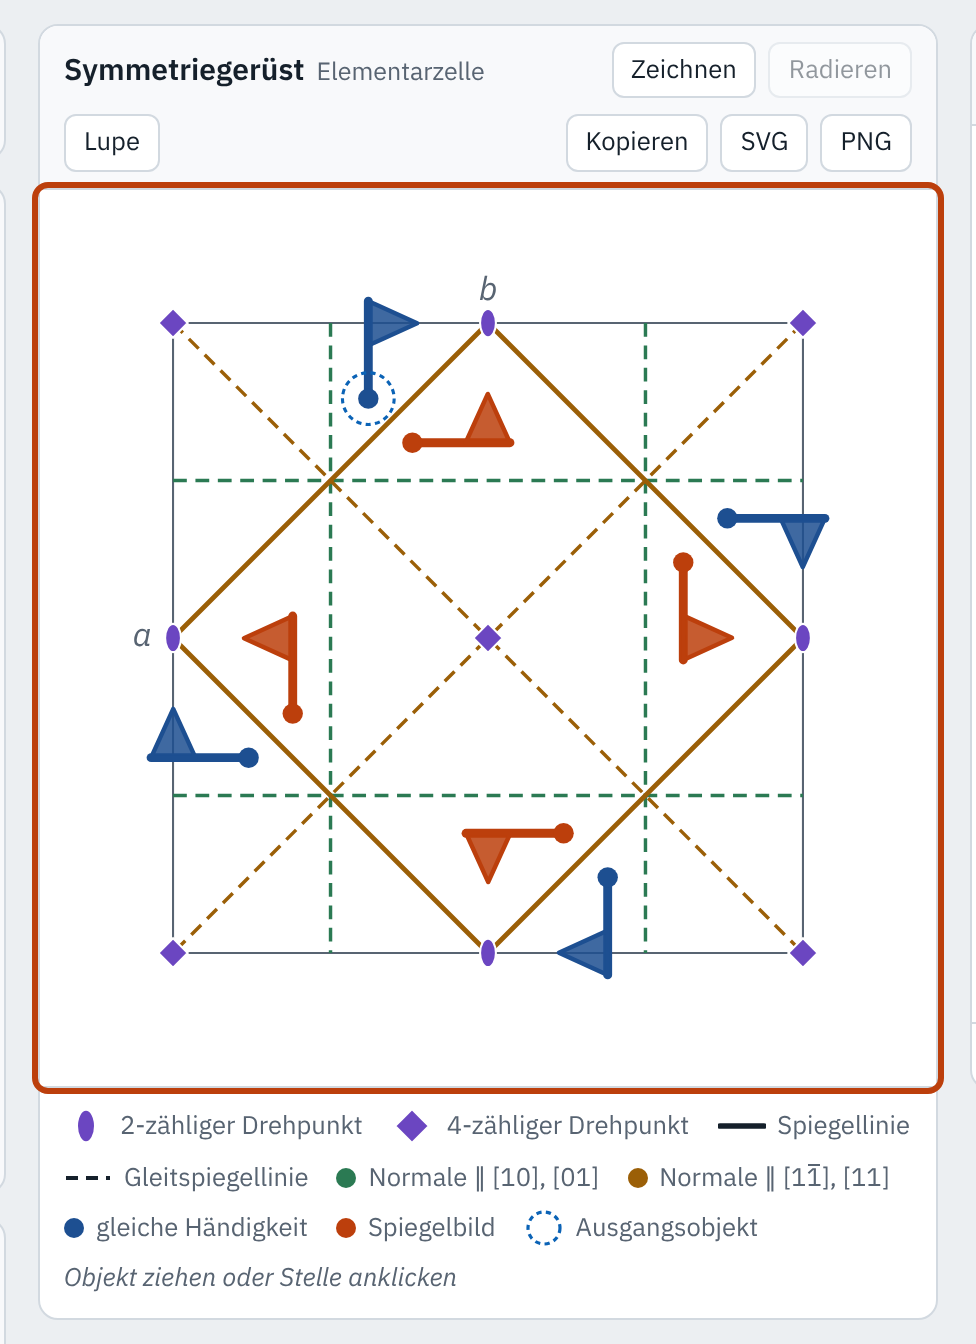
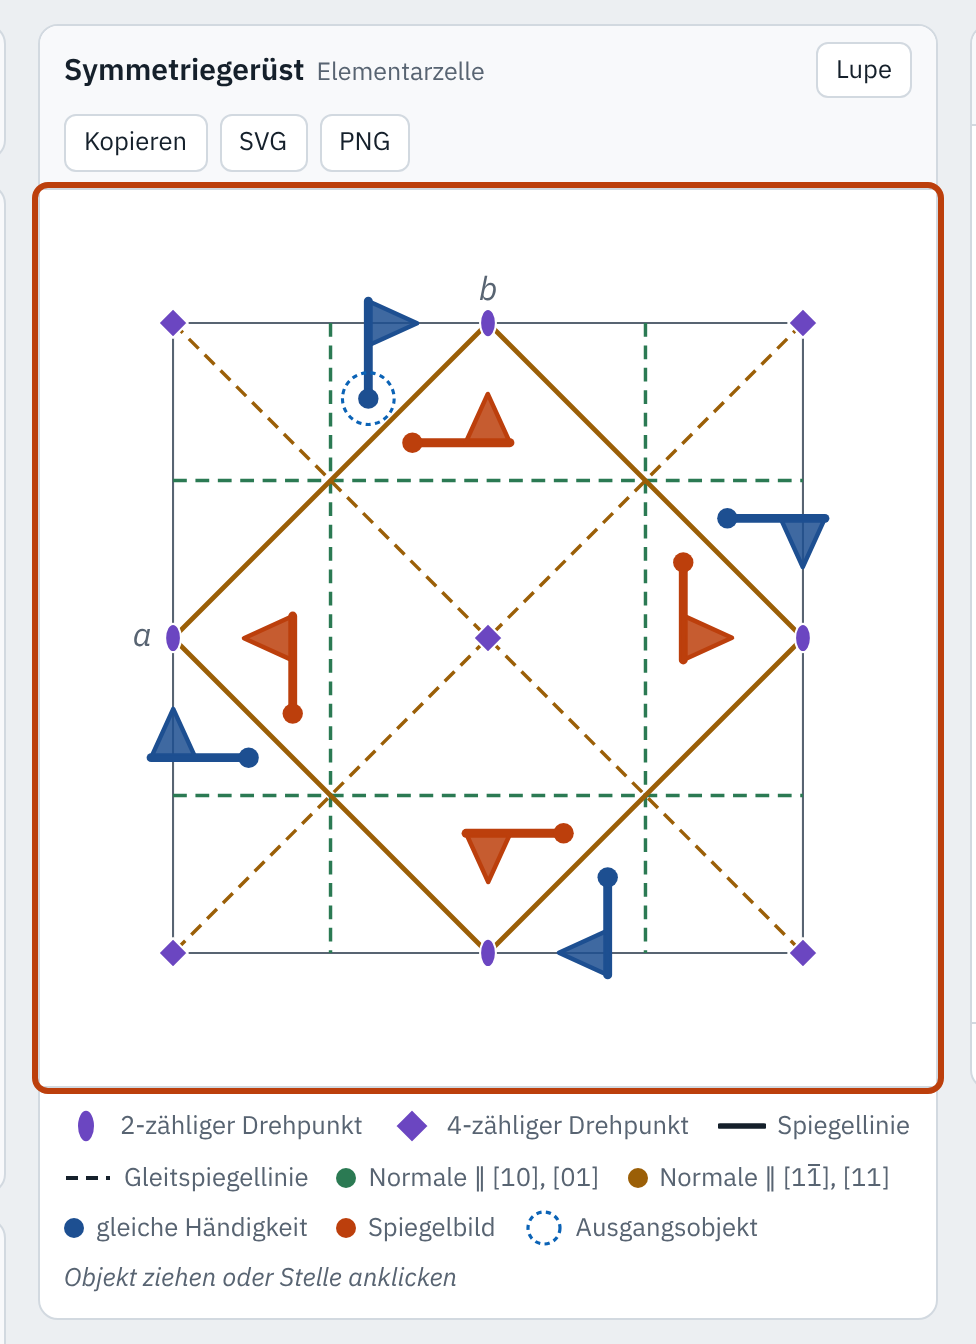
Skript, Hilfebilder und Tooltips (Zu #136, Schritt 6) (#147)
* Skript, Hilfebilder und Tooltips nach dem Zeichnen im Entwurf (Zu #136, Schritt 6)

Claude-Session: https://claude.ai/code/session_01L8SY943PurePAwmH3HyLcT

* Review zu #147: Formulierungen und Reste von „Selbst zeichnen“

Claude-Session: https://claude.ai/code/session_01L8SY943PurePAwmH3HyLcT

---------

diff --git a/js/hilfetexte.js b/js/hilfetexte.js
@@ -5,7 +5,7 @@
 export const TIPS = {
   'tab-eg': 'Die 17 Ebenengruppen: Symmetrieelemente, Lagen und Muster.',
   'tab-struktur': 'Gitter und Basis: eine Struktur aus Gitter und Motiven aufbauen; die App bestimmt ihre Ebenengruppe.',
-  'tab-entwurf': 'Muster entwerfen: eine Ebenengruppe wählen und Motive setzen; jedes erscheint mit allen Operationen der Gruppe. Die Gruppe bleibt fest, die App bestimmt nichts.',
+  'tab-entwurf': 'Muster entwerfen: eine Ebenengruppe wählen, Motive setzen und Striche zeichnen; jedes erscheint mit allen Operationen der Gruppe. Die Gruppe bleibt fest, die App bestimmt nichts.',
   's-vorgabe': 'Fertige Strukturen: Bravais-Gitter, ein Dreiecksbeispiel in drei Stufen, 2D-Materialien in Draufsicht, Archimedische Parkettierungen, Mauerwerk und Pflaster sowie künstliches Spin-Eis.',
   's-zuruecksetzen': 'Gitter und Basis wieder wie in der gewählten Vorgabe.',
   's-elemente': 'Symmetrieelemente der gefundenen Ebenengruppe über der Struktur, in der konventionellen Zelle.',
@@ -38,7 +38,7 @@ export const TIPS = {
   'opt-einrasten': 'Nahe einem Drehpunkt oder einer Spiegellinie springt das Objekt beim Ziehen auf das Symmetrieelement (spezielle Lage).',
   'obj-x': 'Koordinate x des Ausgangsobjekts in Bruchteilen von a.',
   'obj-y': 'Koordinate y des Ausgangsobjekts in Bruchteilen von b.',
-  'obj-groesse': 'Grösse des Objekts (Fähnchen oder Komma) im Verhältnis zur Zelle, in beiden Tafeln gleich wie eine Zeichnung; etwa für ein Muster mit grossen Objekten. „Schritt für Schritt“, der Aufbau aus Erzeugenden und „Herkunft der Elemente“ zeigen es im Symmetriegerüst in fester Grösse.',
+  'obj-groesse': 'Grösse des Objekts (Fähnchen oder Komma) im Verhältnis zur Zelle, in beiden Tafeln gleich wie die Motive der Basis; etwa für ein Muster mit grossen Objekten. „Schritt für Schritt“, der Aufbau aus Erzeugenden und „Herkunft der Elemente“ zeigen es im Symmetriegerüst in fester Grösse.',
   'reset-objekt': 'Objekt zurück an die Ausgangslage und auf die normale Grösse.',
   'lat-ba': 'Verhältnis der Gitterkonstanten b/a. Frei im schiefwinkligen und im rechteckigen System.',
   'lat-gamma': 'Winkel γ zwischen a und b. Frei nur im schiefwinkligen System.',
@@ -47,7 +47,7 @@ export const TIPS = {
   'v-muster-el': 'Die Symmetrieelemente auch im Muster einblenden. In „Gitter und Basis“ sind es die der bestimmten Gruppe, in ihrer konventionellen Zelle, im Entwurf die der gewählten.',
   'v-zoom': 'Vergrössert das Muster (über 1) oder zeigt einen grösseren Ausschnitt (unter 1); Zellen und Objekte ändern sich im selben Verhältnis.',
   'v-tapete': 'Das Muster wie eine Tapete: ohne Zelle und Symmetrieelemente, im selben Massstab. In „Ebenengruppen“ alles in einer Farbe; in „Gitter und Basis“ und im Entwurf behalten die Motive ihre Farben. Mehr davon zeigt eine Vergrösserung unter 1.',
-  's-werkzeug-zeichnen': 'Werkzeug (nur im Entwurf): Im Entwurf ziehen zeichnet einen Strich in der Farbe der gewählten Atomsorte. Die Gruppe vervielfältigt ihn mit allen Operationen, auch im Muster. Schliesst sich mit „Wählen und ziehen“, „Hinzufügen“ und „Radieren“ aus.',
+  's-werkzeug-zeichnen': 'Werkzeug (nur im Entwurf): Ziehen zeichnet einen Strich in der Farbe der gewählten Atomsorte. Die Gruppe vervielfältigt ihn mit allen Operationen, auch im Muster. Schliesst sich mit „Wählen und ziehen“, „Hinzufügen“ und „Radieren“ aus.',
   'werkzeug-lupe': 'Die Tafel mit dem Symmetriegerüst (in „Gitter und Basis“ und im Entwurf: mit der Struktur) doppelt so gross zeigen, etwa um ein Objekt in p6mm genau zu setzen: in „Ebenengruppen“ um das Objekt, sonst um das gewählte Motiv, ohne Wahl um die Mitte der Zelle. Die Ansicht folgt, wenn man loslässt. In „Ebenengruppen“ ruht sie, solange „Schritt für Schritt“, der Aufbau aus Erzeugenden oder „Herkunft der Elemente“ aktiv ist.',
   's-werkzeug-radieren': 'Werkzeug (nur im Entwurf): Über Striche ziehen radiert die überfahrenen Stücke, am Original und an allen Kopien zugleich; ein Strich behält seine Farbe. Gesperrt, solange es keine Striche gibt.',
   'zeichnen-zurueck': 'Den letzten Strich oder das letzte Radieren rückgängig machen (die Motive bleiben).',
@@ -73,7 +73,7 @@ export const SECTIONS = [
   { heading: '#sec-zeichnen > summary', intro: 'Striche statt Motive: Zeichnen Sie etwas, die Gruppe macht daraus ein Muster. Striche und Motive lassen sich kombinieren; Striche haben die Farbe einer Atomsorte, Spiegelbilder dieselbe.', ids: ['s-werkzeug-zeichnen', 's-werkzeug-radieren', 'zeichnen-zurueck', 'zeichnen-loeschen'] },
   { heading: '#sec-sgitter > summary', intro: 'Gitter der gegebenen Zelle; in „Gitter und Basis“ ohne Bindung an ein Kristallsystem, im Entwurf innerhalb des Kristallsystems der Gruppe.', ids: ['s-ba', 's-gamma', 's-metrik'] },
   { heading: '#sec-weiter > summary', intro: 'Eine Struktur aus „Gitter und Basis“ als Muster weiterbearbeiten, in der bestimmten Gruppe.', ids: ['s-weiter'] },
-  { heading: '#ctl-entwurf > h2', intro: 'Muster entwerfen: Man wählt die Gruppe und setzt Motive; jedes erscheint mit allen Operationen der Gruppe. Gruppe und Zelle bleiben fest, die App bestimmt die Symmetrie nicht.', ids: ['e-picker', 'e-elemente', 'e-ae'] },
+  { heading: '#ctl-entwurf > h2', intro: 'Muster entwerfen: Man wählt die Gruppe, setzt Motive und zeichnet Striche; jedes erscheint mit allen Operationen der Gruppe. Gruppe und Zelle bleiben fest, die App bestimmt die Symmetrie nicht.', ids: ['e-picker', 'e-elemente', 'e-ae'] },
   { heading: '#ctl-gruppe > h2', intro: 'Gruppe antippen: Links erscheint das Symmetriegerüst einer Elementarzelle, rechts ein Ausschnitt des Musters. Das Objekt lässt sich im Symmetriegerüst ziehen.', ids: ['opt-elemente', 'opt-objekt', 'opt-ae', 'opt-zellen', 'seg-form', 'seg-ornament', 'opt-einrasten', 'opt-orbit'] },
   { heading: '#sec-schritte > summary', intro: 'Wie erzeugen die Symmetrieoperationen aus einem Objekt das ganze Muster? Hier wirken sie einzeln.', ids: ['opt-schritt', 'schritt-regler', 'schritt-zurueck', 'schritt-vor', 'schritt-abspielen'] },
   { heading: '#sec-aufbau > summary', intro: 'Welche Symmetrieelemente folgen zwangsläufig aus wenigen Erzeugenden, und aus welchen Operationen entsteht ein bestimmtes Element?', ids: ['opt-aufbau', 'aufbau-schritt', 'aufbau-zurueck', 'aufbau-vor', 'opt-herkunft'] },

diff --git a/skript.html b/skript.html
@@ -1397,7 +1397,7 @@
         </div>
         <div class="box app">
           <h4>In der App</h4>
-          <p>Den Schalter „Asymmetrische Einheit“ einschalten. Tippt man in den Kenndaten eine ihrer Bedingungen an, zeigt das Symmetriegerüst den Bereich, in dem sie erfüllt ist. Unter „Darstellung“ färbt „Asymmetrische Einheit füllen“ sie ein und zeigt ihre Kopien; man kann auch in ihr zeichnen und sieht das Muster entstehen.</p>
+          <p>Den Schalter „Asymmetrische Einheit“ einschalten. Tippt man in den Kenndaten eine ihrer Bedingungen an, zeigt das Symmetriegerüst den Bereich, in dem sie erfüllt ist. Unter „Darstellung“ färbt „Asymmetrische Einheit füllen“ sie ein und zeigt ihre Kopien. Im Modus „Muster entwerfen“ lässt sich auch in ihr zeichnen: Mit dem Werkzeug „Zeichnen“ gezogene Striche erscheinen mit allen Operationen der Gruppe, und man sieht das Muster entstehen.</p>
         </div>
       </section>
 
@@ -1564,7 +1564,7 @@
         </div>
         <div class="box app">
           <h4>In der App</h4>
-          <p>Im Modus „Muster entwerfen“ wählt man die Ebenengruppe und setzt ein Ornament (Blatt, Tropfen oder Ranke) als Motiv; unter „Darstellung“ gibt es das „Muster als Tapete“. Die „Vergrösserung des Musters“ (Darstellung) und die „Grösse“ des Motivs (Basis) stellen den Ausschnitt ein; die Links unter den Abbildungen öffnen genau diese Ansicht. Mit „Kopieren“, „SVG“ und „PNG“ über jeder Tafel lässt sich das Bild weiterverwenden.</p>
+          <p>Im Modus „Muster entwerfen“ wählt man die Ebenengruppe und setzt ein Ornament (Blatt, Tropfen oder Ranke) als Motiv; unter „Darstellung“ gibt es das „Muster als Tapete“. Die „Vergrösserung des Musters“ (Darstellung) und die „Grösse“ des Motivs (Basis) stellen den Ausschnitt ein; die Links unter den Abbildungen öffnen genau diese Ansicht. Mit dem Werkzeug „Zeichnen“ lassen sich statt eines Motivs auch Striche ziehen, die die Gruppe mit allen Operationen vervielfältigt; „Radieren“, „Rückgängig“ und „Alles löschen“ korrigieren sie. Mit „Kopieren“, „SVG“ und „PNG“ über jeder Tafel lässt sich das Bild weiterverwenden.</p>
         </div>
       </section>
 

diff --git a/js/zeichnung.js b/js/zeichnung.js
@@ -487,7 +487,7 @@ export function aeTeileSVG(g, auswahl, A, n, farben, teil = 'flaeche') {
 }
 
 // ---------------------------------------------------------------------------------------------
-// Selbst zeichnen: Striche und die asymmetrische Einheit, vervielfältigt mit allen Operationen
+// Zeichnung im Entwurf: Striche (strichSVG in struktur.js) und die asymmetrische Einheit, vervielfältigt mit allen Operationen
 // ---------------------------------------------------------------------------------------------
 
 /** Grenzen für gezeichnete Striche (Bruchkoordinaten): Punkte je Zeichnung und Mindestabstand. */

diff --git a/README.md b/README.md
@@ -193,7 +193,7 @@ node tools/common/sync.mjs ../crystallography-common
 node --test tests/*.test.mjs
 ```
 
-Geprüft werden die Daten aller 17 Ebenengruppen gegen die Rechnung (ITA Part 6), die Zeichnungen (Metrik, Zuordnung der Linien zu den Blickrichtungen), Schoenflies-Symbole und Signaturen, „Schritt für Schritt“, die Herkunft der Elemente aus den Erzeugenden, „Selbst zeichnen“, der Modus „Gitter und Basis“ (Strukturen aus allen 17 Gruppen werden wiedererkannt, auch mit verschobenem Ursprung und anderem Massstab; Toleranzen knapp neben speziellen Metriken und Lagen), die Link-Adressen (hin und zurück), die Quizfragen (Aufbau, Bezug zum Skript, Bilder, Antworten nach Büchern nachgerechnet, Moodle-Export) sowie die Release-Konsistenz (Version, Changelog, Offline-Liste), die Kopie der gemeinsamen Dateien und dass App, Skript und README keine Verweise auf Lehrveranstaltungen enthalten. Dieselben Tests laufen bei jedem Pull Request in GitHub Actions, zusammen mit Typprüfung, ESLint und der PDF-Fassung des Skripts.
+Geprüft werden die Daten aller 17 Ebenengruppen gegen die Rechnung (ITA Part 6), die Zeichnungen (Metrik, Zuordnung der Linien zu den Blickrichtungen), Schoenflies-Symbole und Signaturen, „Schritt für Schritt“, die Herkunft der Elemente aus den Erzeugenden, „Zeichnen“ im Modus „Muster entwerfen“, der Modus „Gitter und Basis“ (Strukturen aus allen 17 Gruppen werden wiedererkannt, auch mit verschobenem Ursprung und anderem Massstab; Toleranzen knapp neben speziellen Metriken und Lagen), die Link-Adressen (hin und zurück), die Quizfragen (Aufbau, Bezug zum Skript, Bilder, Antworten nach Büchern nachgerechnet, Moodle-Export) sowie die Release-Konsistenz (Version, Changelog, Offline-Liste), die Kopie der gemeinsamen Dateien und dass App, Skript und README keine Verweise auf Lehrveranstaltungen enthalten. Dieselben Tests laufen bei jedem Pull Request in GitHub Actions, zusammen mit Typprüfung, ESLint und der PDF-Fassung des Skripts.
 
 Typprüfung und ESLint (die Typen stehen als JSDoc-Kommentare im Code, die Regeln für ESLint in `tools/common/eslint-basis.mjs`; Versionen wie in den Jobs `typen` und `lint` in `.github/workflows/ci.yml`, alle Pakete in einem Befehl, sonst entfernt npm die zuvor installierten):
 

diff --git a/CHANGELOG.md b/CHANGELOG.md
@@ -23,6 +23,7 @@ Das Format folgt [Keep a Changelog](https://keepachangelog.com/de/1.1.0/), die V
 
 ### Geändert
 
+- **Skript, Hilfeseite und Tooltips zum Zeichnen im Entwurf** (#136, Schritt 6): Die Kästen „In der App“ in Kap. 6 und 7 nennen „Zeichnen“ im Modus „Muster entwerfen“ (in „Ebenengruppen“ gibt es es nicht mehr); Tooltip und ⓘ-Erklärung des Modus nennen Striche; Bilder der Hilfeseite neu erzeugt. Texte von Thomas zu prüfen.
 - **„Selbst zeichnen“ entfällt in „Ebenengruppen“** (#136, Schritt 5; Hinweis: im Browser gespeicherte Striche aus „Ebenengruppen“ gehen verloren, die Link-Adresse hatte sie nie): Zeichnen, Radieren, Rückgängig und Alles löschen sind in den Modus „Muster entwerfen“ gezogen. In „Ebenengruppen“ bleibt die gefüllte asymmetrische Einheit („Darstellung“). Die Felder `zeichnen`, `radieren` und `striche` des Zustands entfallen.
 - **Ornamente nur noch als Motive** (#136, Schritt 4c; Hinweis: alte Links und gespeicherte Stände mit `form=blatt`, `tropfen`, `ranke` zeigen wieder das Fähnchen): Im Modus „Ebenengruppen“ gibt es Blatt, Tropfen und Ranke nicht mehr als Form des Objekts, nur noch als Motive in „Muster entwerfen“ und „Gitter und Basis“. Die Abbildungen mit Ornamenten in Kap. 7 und 9 des Skripts und eine Quizfrage zeigen den neuen Modus, Abb. 8.2f bis 8.4f die Vorgabe „Ranken“.
 - **Bruch von Link und Speicher** (#136, Schritt 4b, MINOR; Link und Speicher sind in der Entwicklung nicht stabil, Leitfaden Abschn. 8): „Symmetrie festhalten“ in „Gitter und Basis“ ist in den Modus „Muster entwerfen“ gezogen (Schalter, Abschnitt, Gruppenwahl, die Link-Schlüssel `sg` und das Speicherfeld `festeGruppe` entfallen; die beiden Experimente „Motiv auf einem Drehpunkt“ und „Zufällig mehr Symmetrie“ und der Erste-Schritte-Schritt dazu entfallen, die Neufassung folgt in 4c). Alte Links mit `sg=` öffnen die Struktur ohne festgehaltene Gruppe. Die Speicherversion steigt auf 3: Ein gespeicherter Stand mit v2 wird verworfen. Zusammenfallende Bilder gelten nach der neuen Regel (alle verschiedenen bleiben, vorher nur das der Identität). Der Skript-Absatz dazu ist angepasst, die Neufassung der Kapitel folgt in 4c.

diff --git a/docs/konzept-muster-entwerfen.md b/docs/konzept-muster-entwerfen.md
@@ -243,5 +243,5 @@ README und `CLAUDE.md` (Leitfaden Abschn. 8). Im Einzelnen:
    Motiven, Regel für zusammenfallende Bilder (Abschn. 2, Punkt 14), Gitter; „Symmetrie festhalten“ aus „Gitter und Basis“ entfernen; Übergang; Ornamente aus „Ebenengruppen“ samt
    Skript (Vorgabe mit Ranken für Kap. 8, Umbau von `js/skript.js`) und Quiz; Experimente und Erste Schritte dazu.
 5. Zeichnen in den neuen Modus (**umgesetzt am 12.11.2026**; Wahl beim Umsetzen in `CLAUDE.md`, Punkt „Modus „Muster entwerfen““).
-6. Hilfebilder, Vorschau, Durchsicht des Skripts.
+6. Hilfebilder, Vorschau, Durchsicht des Skripts (**umgesetzt am 12.11.2026**: Hilfebilder neu erzeugt, Kästen „In der App“ zu Zeichnen und Asymmetrischer Einheit nachgeführt, Tooltips des Modus ergänzt, Vorschau mit dem vollständigen Stand veröffentlicht).
 7. Release (MINOR, Hinweis: alte Links gelten nicht mehr).
